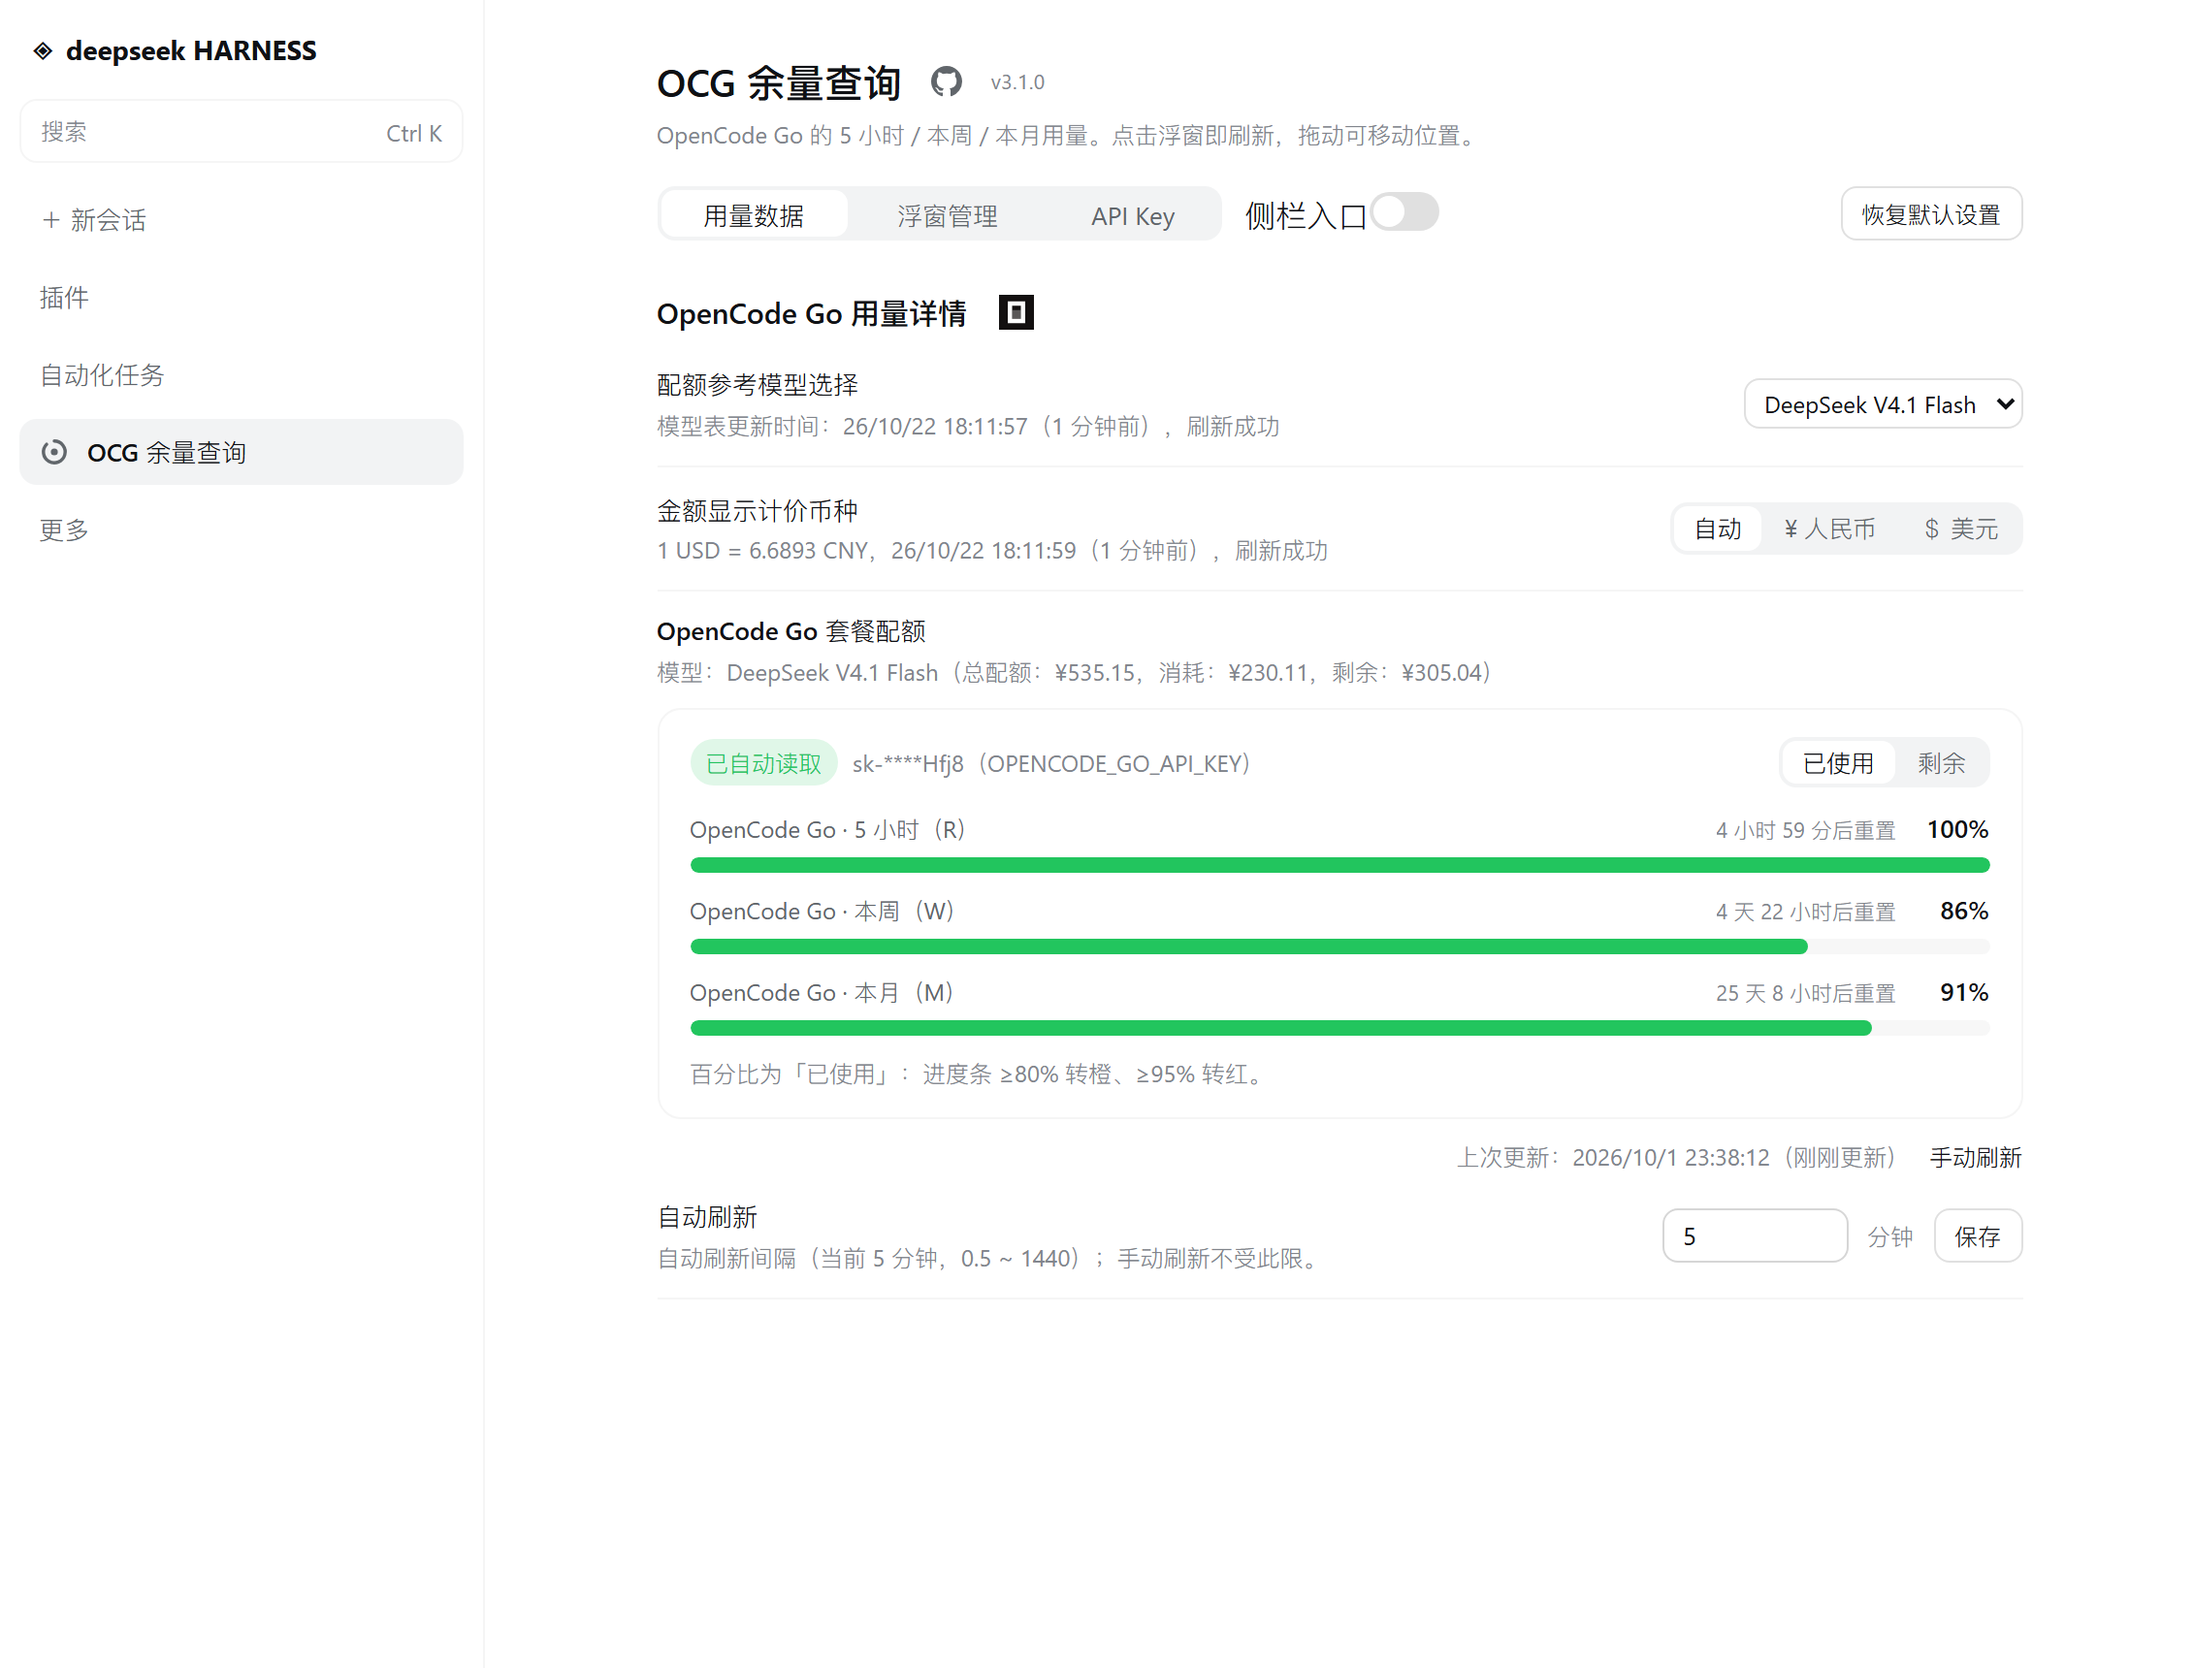
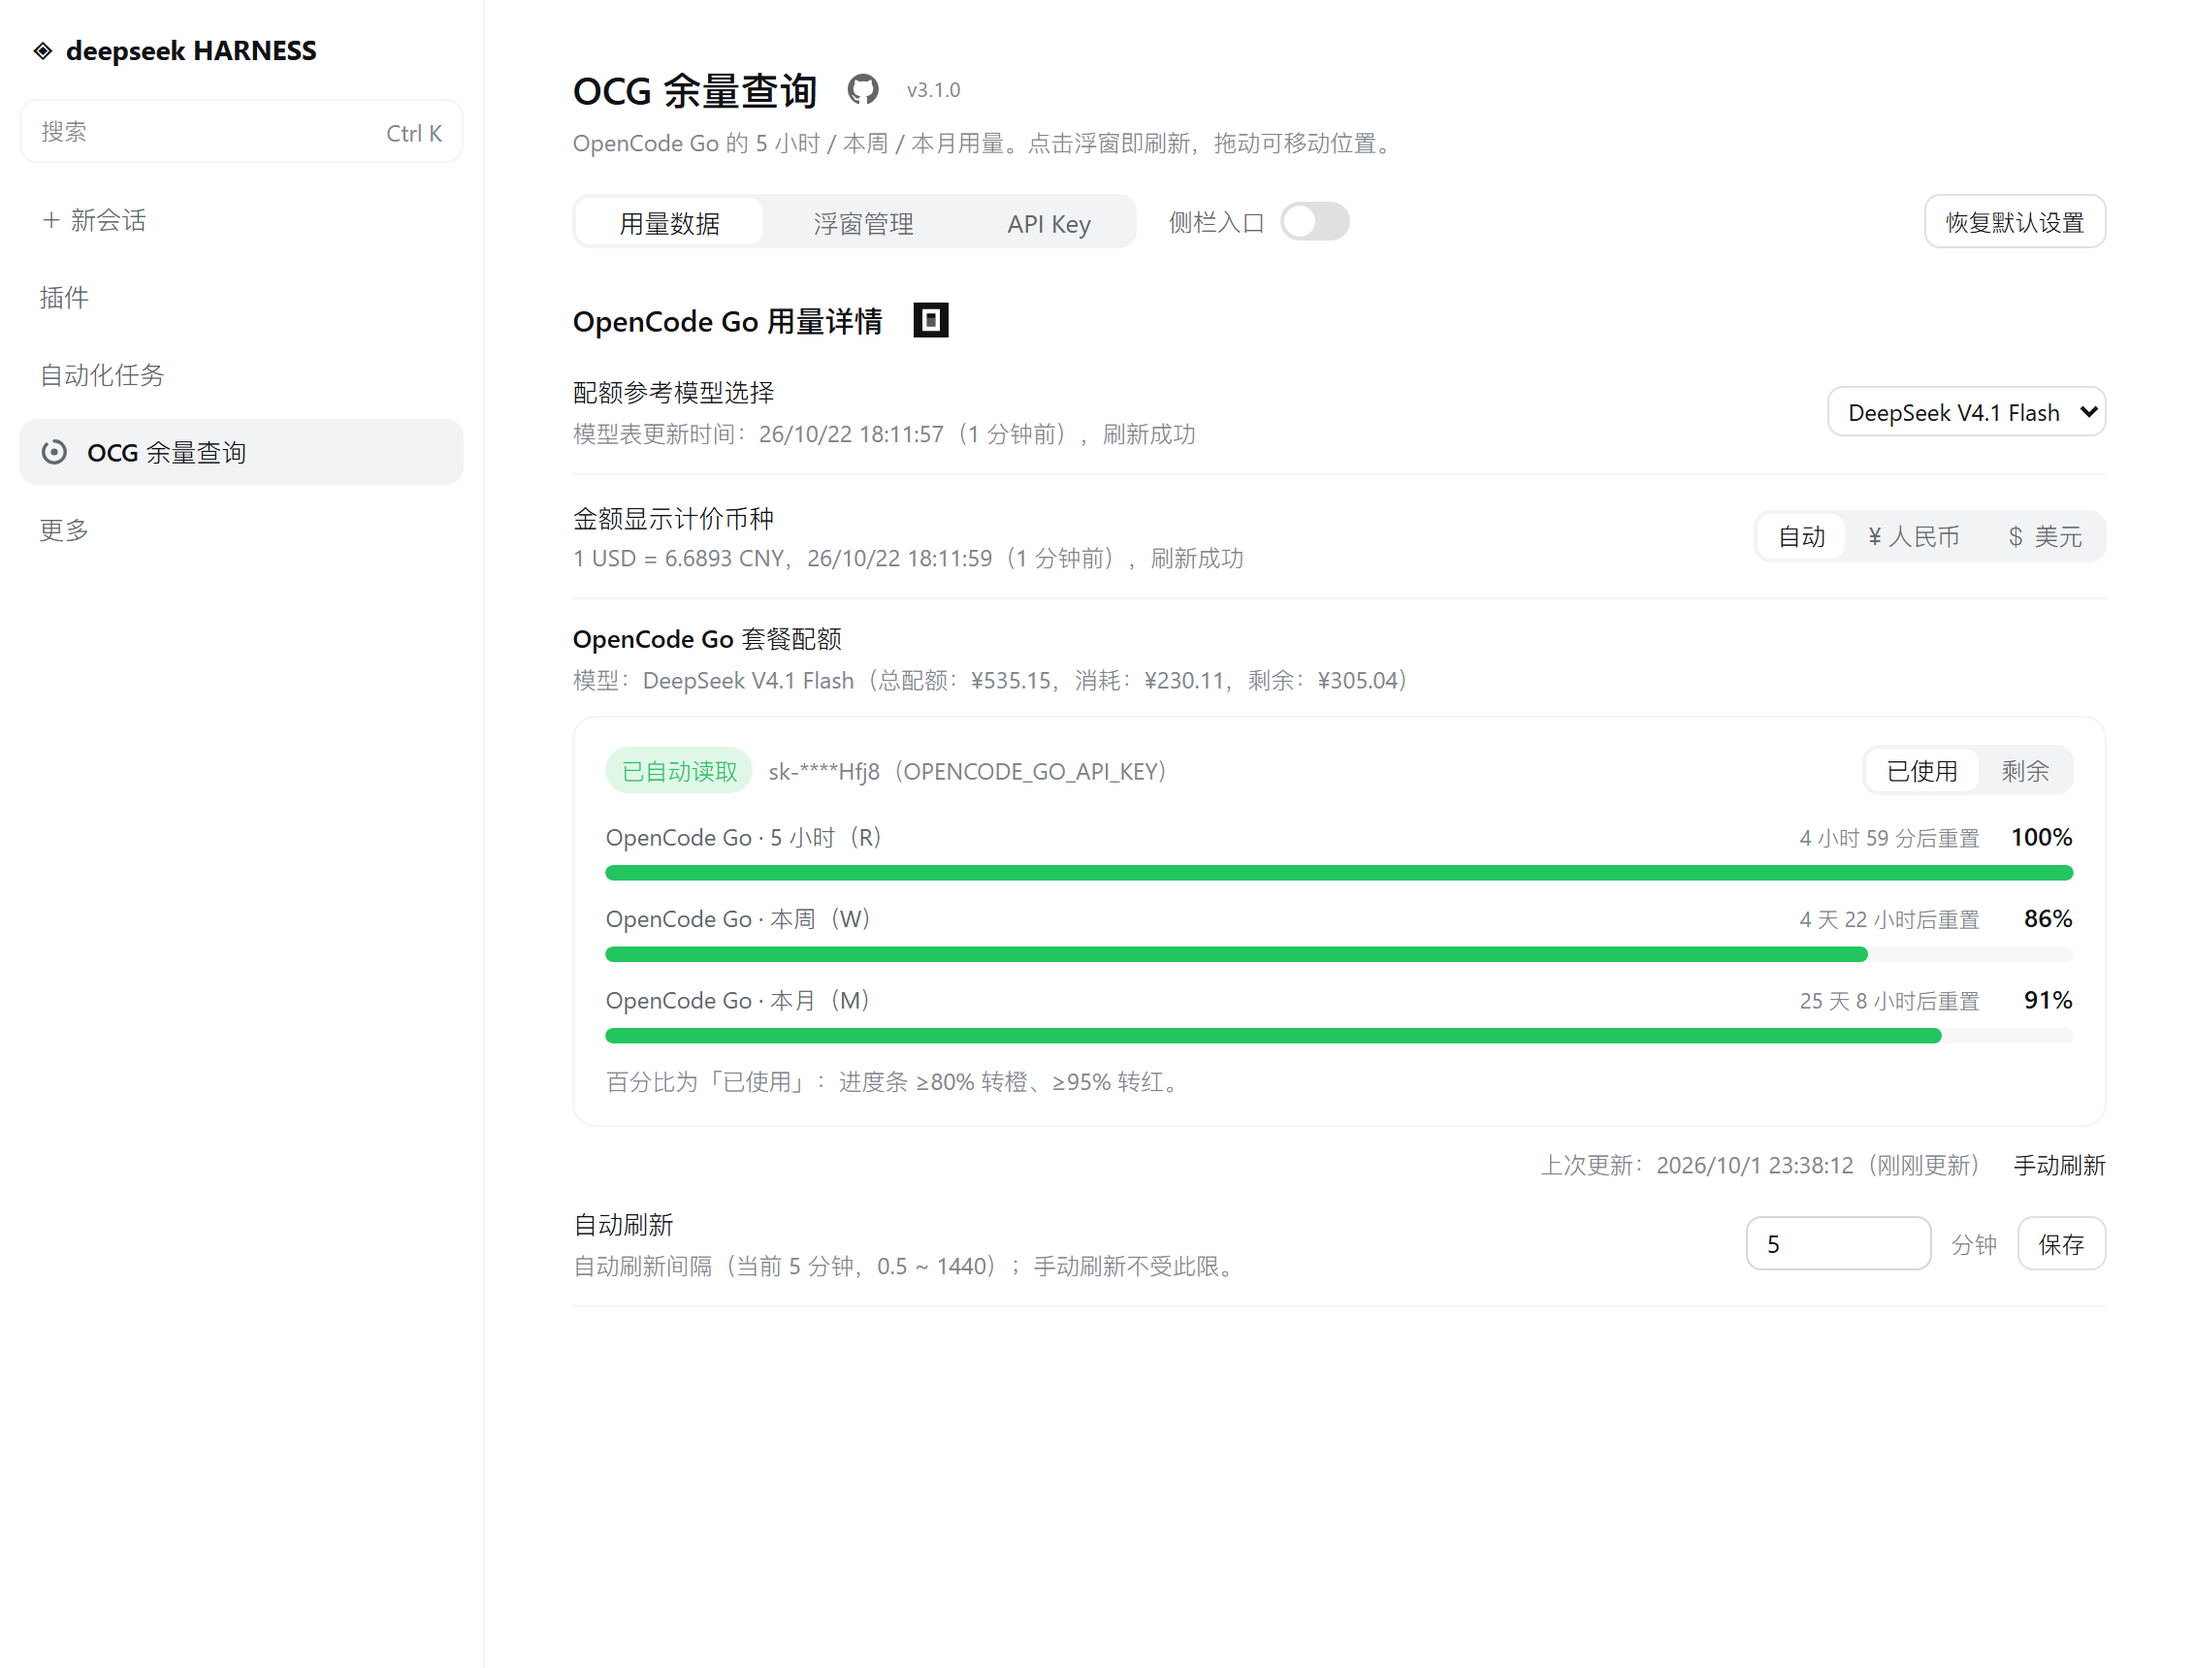
fix: 3.1.1 — resilient schemastery resolution and official page layout
- Resolve @deepseek-ai/schemastery in two stages (createRequire, then dynamic ESM import) and export Config = undefined when both fail, so the plugin still loads in isolated sandboxes instead of taking the whole plugin tree down
- Align the sidebar page with the host official page skeleton (flex column, 960px content column, clamp(24px,4vw,48px) gutters, 28px top padding)
- Regenerate the sidebar screenshot; CHANGELOG wording as reviewed

diff --git a/index.js b/index.js
@@ -1,4 +1,38 @@
-import z from "@deepseek-ai/schemastery"
+// @deepseek-ai/schemastery 是**宿主包**（不在 npm 上，dshmarket 的代码注释明确写了这一点）：
+// 桌面端一定会提供它，但裸 CLI / 隔离沙箱环境不一定能从这个插件的模块图里解析到。
+// 做成静态 import 时，解析失败会让整棵插件树加载失败（dsh.so 的 L5.2_WEB_BOOT_READY 就是这么挂的 ✗）；
+// 因此改成「尽力动态解析 + 最小 shim 兜底」：拿不到真库时 Config 仍然可用，插件照常加载 ✓。
+// 宿主包 @deepseek-ai/schemastery 不在 npm 上，只能由宿主提供；静态 ESM import 一旦解析不到，
+// 整棵插件树就会加载失败（dsh.so 的 L5.2_WEB_BOOT_READY 正是这样挂的 ✗）。
+// 这里完全对齐 dsh-claude-style（L5 长期全绿）的两段式解析：createRequire → ESM 动态 import → 都失败则 Config = undefined。
+async function resolveSchemaFactory() {
+  try {
+    const { createRequire } = await import("node:module");
+    const anchor = typeof process.argv[1] === "string" && process.argv[1] !== "" ? process.argv[1] : process.execPath;
+    const factory = createRequire(anchor)("@deepseek-ai/schemastery");
+    if (factory != null && typeof factory.object === "function") return factory;
+  } catch (e) { /* 落到 ESM 动态 import */ }
+  try {
+    const resolved = await import("@deepseek-ai/schemastery");
+    const factory = (resolved && (resolved.default || resolved.Schema)) || null;
+    return factory != null && typeof factory.object === "function" ? factory : null;
+  } catch (e) { return null; }
+}
+const zReal = await resolveSchemaFactory();
+// 内部构造用的兜底：真库缺失时用最小 shim，只为让模块能加载；宿主 schema 不导出（见下方 Config）
+function makeSchemaShim() {
+  var node = function () {
+    var self = {
+      default: function () { return self; }, volatile: function () { return self; }, role: function () { return self; },
+      description: function () { return self; }, min: function () { return self; }, max: function () { return self; },
+      optional: function () { return self; }, required: function () { return self; }, deprecated: function () { return self; },
+      hidden: function () { return self; }
+    };
+    return self;
+  };
+  return { object: node, string: node, number: node, boolean: node, array: node, dict: node, any: node, union: node, "const": node, enum: node };
+}
+const z = zReal || makeSchemaShim();
 import { GO_DATA_SNAPSHOT, fetchGoModelsLive, fetchFxLive, USER_AGENT as GO_USER_AGENT } from "./go-fetch.js"
 
 export const name = "opencode-go-usage"
@@ -36,7 +70,7 @@ const BalanceInfo = z.object({
   toppedUpBalance: z.string().default(""),
 })
 
-export const Config = z.object({
+export const Config = zReal ? z.object({
   // ── 用户可改 ──
   // 两把 Key 都是可选覆盖：留空则自动使用 DSH 凭据库
   // （OpenCode Go → OPENCODE_GO_API_KEY；DeepSeek → DEEPSEEK_API_KEY）
@@ -108,7 +142,7 @@ export const Config = z.object({
   fxRateDate: z.string().default("").volatile(),
   fxSource: z.string().default("").volatile(),
   fxError: z.string().default("").volatile(),
-})
+}): undefined
 
 const OCG_ENDPOINT = "https://opencode.ai/zen/go/v1/usage"
 const DS_ENDPOINT = "https://api.deepseek.com/user/balance"

diff --git a/client.js b/client.js
@@ -227,10 +227,11 @@ window.__ModuleLoader__.load({ id: '@verneuil/dsh-opencode-go-usage', factory: (
     '.ocgu-tabs-toggle{display:inline-flex;align-items:center;gap:8px;margin-left:4px}' +
     '.ocgu-tabs-label{font-size:12.5px;line-height:1;color:var(--dsw-alias-label-secondary);white-space:nowrap}' +
     // 侧栏入口打开后的整页面板：居中单列、与设置页同宽
-    // 整页宽度：固定 760px（切换三个标签时不再随内容宽度跳变）；窗口更窄时自适应 100%
-    '.ocgu-page{box-sizing:border-box;width:760px;max-width:100%;margin:0 auto;padding:24px 28px 64px}' +
-    // 宿主页面容器若是 flex，避免被压成内容宽度
-    '.ocgu-page>*{min-width:0}' +
+    // 整页容器：逐条对齐宿主官方页面骨架（asar 内 .V7pFBG_page / .pageHead）：
+    //   官方 = 外层 flex 列 + align-items:center + 左右 padding clamp(24px,4vw,48px)，子项 width:100%/max-width:960px，
+    //   页头 padding-top:28px。这样侧栏页与其他官方页（插件 / 自动化任务）左右边界、留白完全一致。
+    '.ocgu-page{box-sizing:border-box;display:flex;flex-direction:column;align-items:center;width:100%;padding:28px clamp(24px,4vw,48px) 48px;overflow:auto}' +
+    '.ocgu-page>*{box-sizing:border-box;width:100%;max-width:960px;min-width:0}' +
     // 标题行（标题 + 右侧图标按钮）
     '.ocgu-title-row{display:flex;align-items:center;gap:10px}' +
     // 标题右侧的版本号小字

diff --git a/go-fetch.js b/go-fetch.js
@@ -19,7 +19,7 @@ export const FX_SOURCES = [
 export { GO_DATA_SNAPSHOT }
 
 // UA 只在这里定义一次，宿主半侧 import 复用（避免版本号两处漂移）
-export const USER_AGENT = "dsh-opencode-go-usage/3.1.0 (+DeepSeek Harness plugin; +https://github.com/verneuil/dsh-opencode-go-usage)"
+export const USER_AGENT = "dsh-opencode-go-usage/3.1.1 (+DeepSeek Harness plugin; +https://github.com/verneuil/dsh-opencode-go-usage)"
 const UA = USER_AGENT
 
 function stripTags(s) {

diff --git a/CHANGELOG.md b/CHANGELOG.md
@@ -1,3 +1,15 @@
+## 3.1.1
+
+修复：
+- 修复在无法解析宿主包 @deepseek-ai/schemastery 的环境（如隔离沙箱、纯 CLI profile）中插件加载失败、导致整棵插件树无法加载的问题：改为 createRequire → ESM 动态 import 两段式解析，两段均失败时导出 Config = undefined 并让插件照常运行；桌面端仍走原有解析路径，行为不变；
+- 侧栏整页与宿主官方页面保持同一版式，切换三个标签时宽度不再跳变。
+
+**English**
+
+**Fixes**
+- Fixed the plugin failing to load in environments where the host package @deepseek-ai/schemastery cannot be resolved (isolated sandboxes, plain CLI profiles), which took the whole plugin tree down: the schema factory is now resolved in two stages (createRequire → dynamic ESM import), and when both fail Config is exported as undefined while the plugin keeps running; the desktop path is unchanged;
+- The sidebar page now follows the host’s official page layout, and its width no longer jumps when switching between the three tabs.
+
 ## 3.1.0
 
 新功能：
